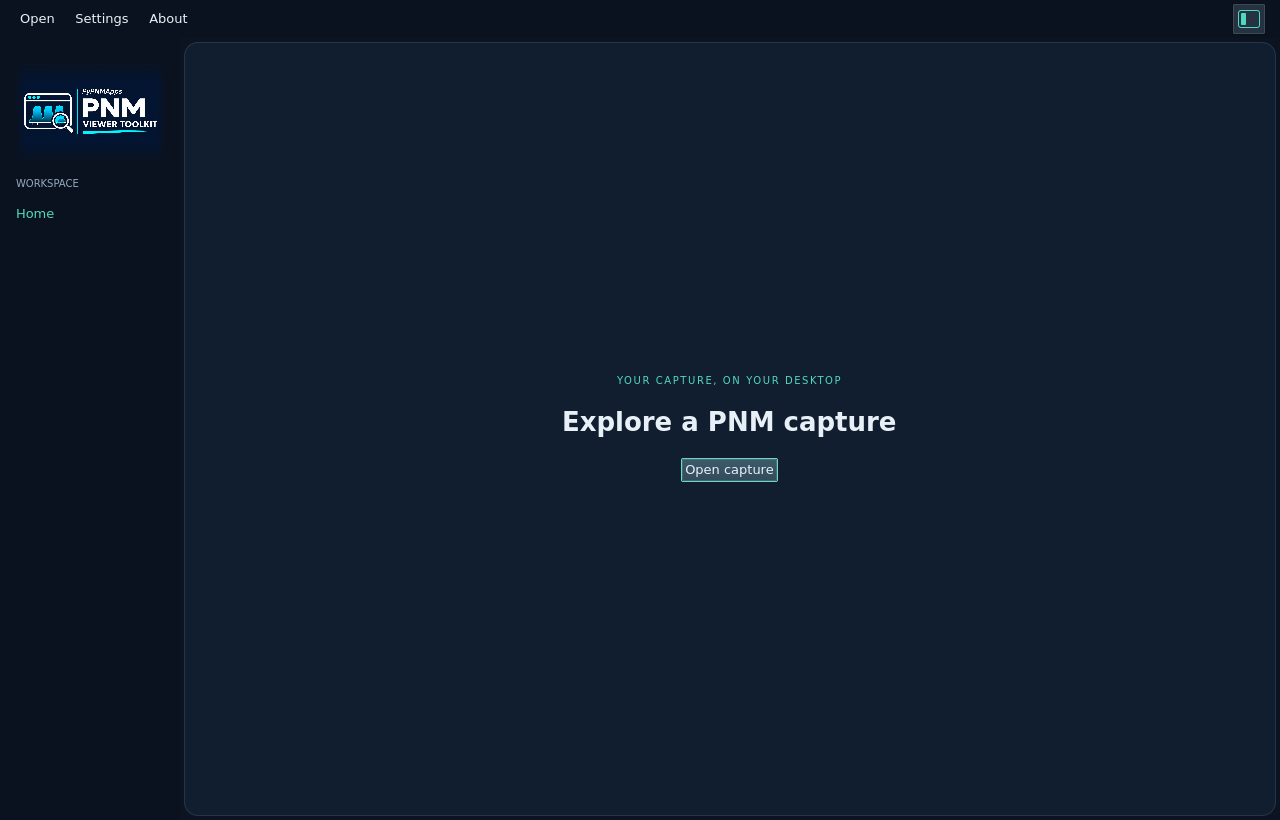
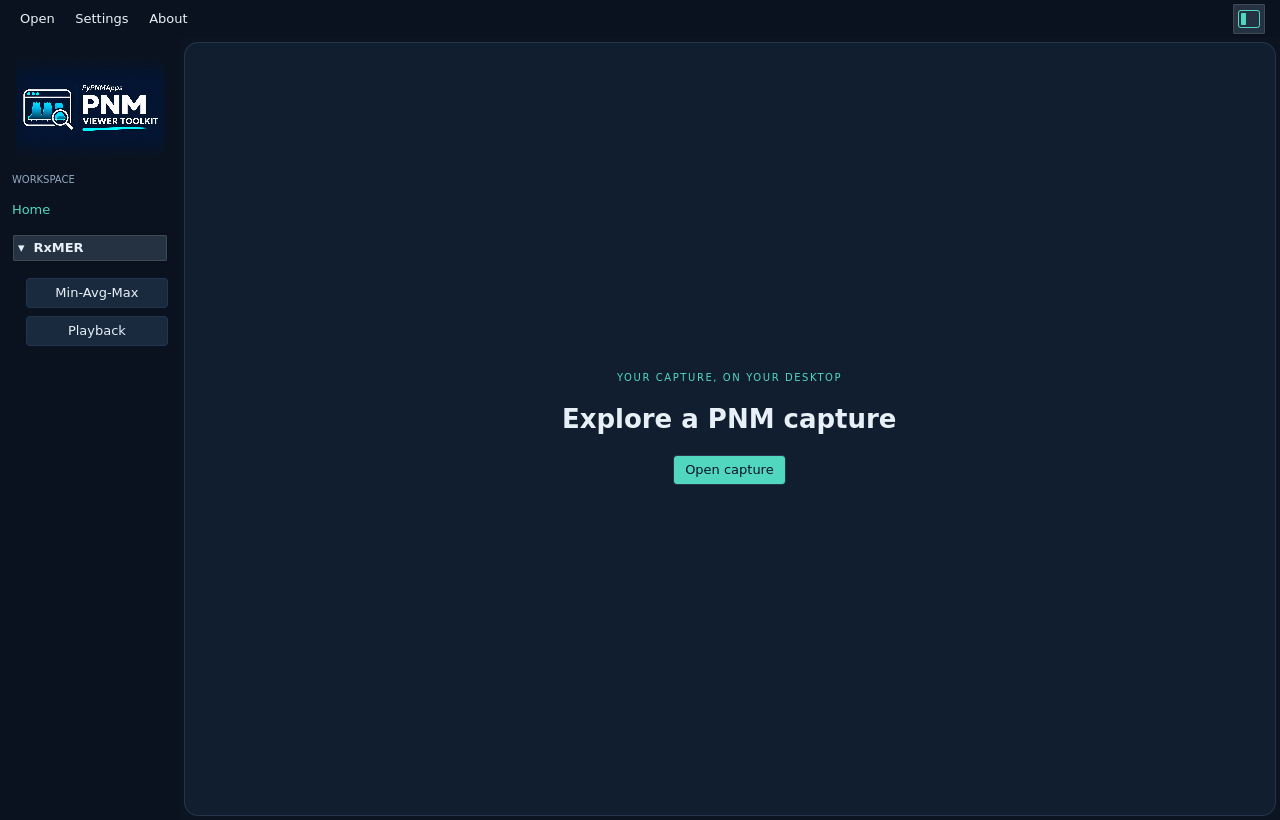
Feature: Add RxMER capture playback - Group RxMER tools and simplify channel labels - Add epoch selection, playback speed and stepping - Preserve zoom and reuse Rust capture analysis - Show per-capture Avg MER and UTC chips - Update demo guides and dark/light screenshots - Tests: 170 Rust, 107 QML a

diff --git a/apps/qt/qml/Main.qml b/apps/qt/qml/Main.qml
@@ -79,7 +79,7 @@ ApplicationWindow {
     property bool averageAnalysisSelected: false
     readonly property var preEqAttachment: JSON.parse(backend.pre_eq_attachment_json)
     readonly property var preEqResult: JSON.parse(backend.pre_eq_json)
-    property bool navigationVisible: false
+    property bool navigationVisible: true
     readonly property bool blocked: backend.busy || backend.pre_eq_busy || backend.rxmer_collection_busy || rxmerCollection.popupVisible || collectionArchiveDialog.visible || collectionFolderDialog.visible || collectionSaveDialog.visible || fileError.visible || preEqOpenDialog.visible || preEqSaveDialog.visible || openDialog.visible || saveDialog.visible || systemDialog.visible || aboutDialog.visible || profileBandwidth.popupVisible || bitLoadingDialog.visible || analysisSaveDialog.visible
 
     CaptureDropArea {

diff --git a/README.md b/README.md
@@ -24,7 +24,7 @@ its graph, and export decoded JSON. The native Qt interface uses a Rust backend.
 <picture>
   <source media="(prefers-color-scheme: dark)" srcset="docs/ui/images/home/home-dark.png">
   <source media="(prefers-color-scheme: light)" srcset="docs/ui/images/home/home-light.png">
-  <img alt="PNM Viewer Toolkit starting screen with the left navigation pane open" src="docs/ui/images/home/home-dark.png" width="1000">
+  <img alt="PNM Viewer Toolkit starting screen with RxMER tools in the default open navigation pane" src="docs/ui/images/home/home-dark.png" width="1000">
 </picture>
 
 ## Start here

diff --git a/docs/ui/README.md b/docs/ui/README.md
@@ -32,6 +32,9 @@ and packaged installation remain unverified.
 
 ## Starting screen
 
+The left navigation pane opens by default. Use the pane button at the top right
+to hide or show it. Expand **RxMER** to choose **Min-Avg-Max** or **Playback**.
+
 <picture>
   <source media="(prefers-color-scheme: dark)" srcset="images/home/home-dark.png">
   <source media="(prefers-color-scheme: light)" srcset="images/home/home-light.png">
